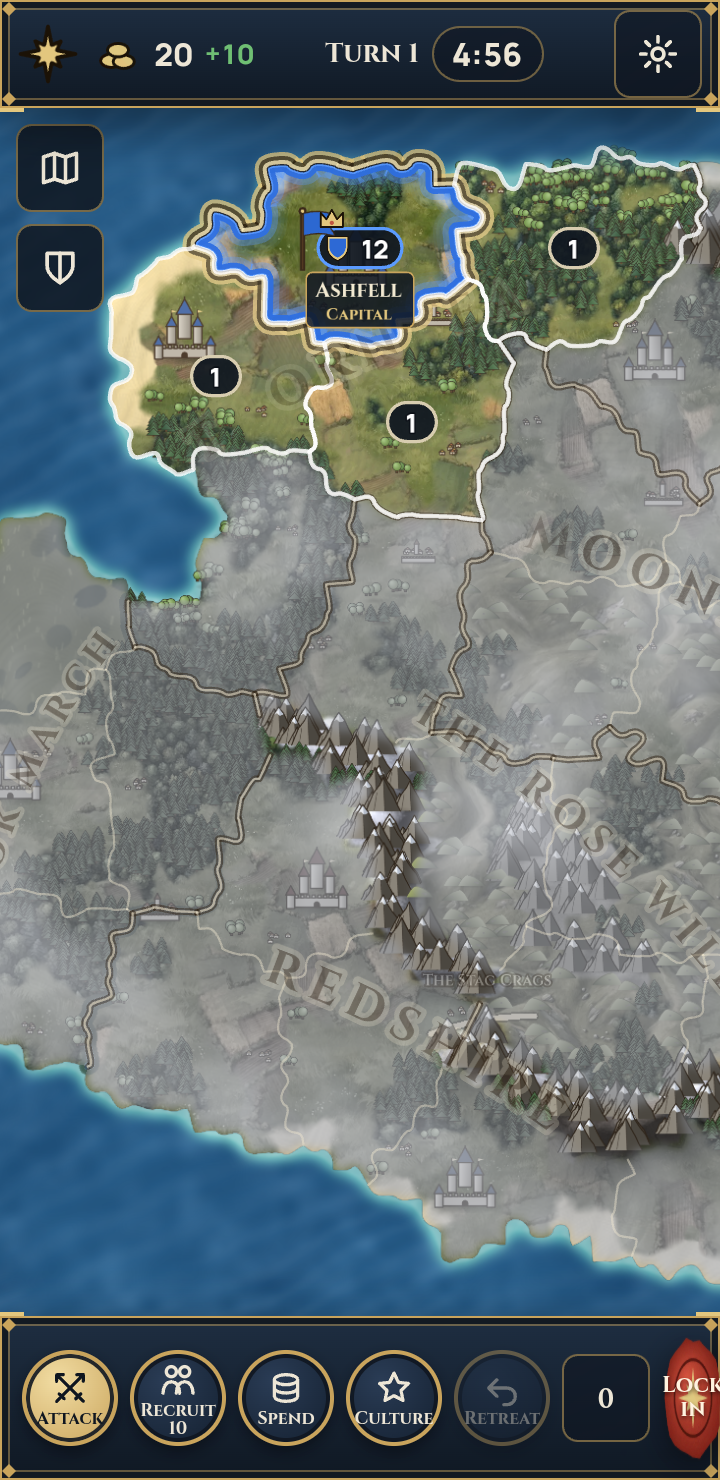
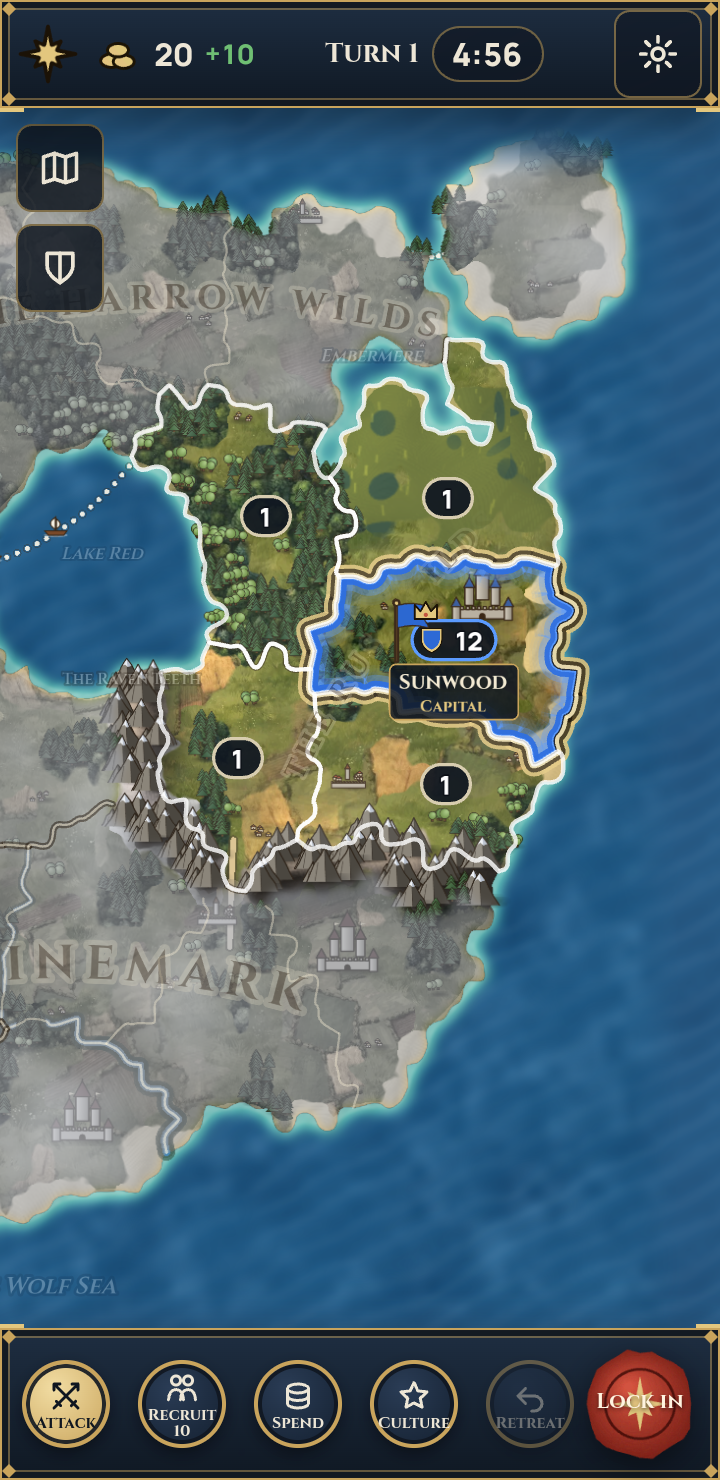
Map: natural ground edges (ragged noise edges, rock and snow by height, coastal sand), one colour grade, soft contact shadows under sprites; art import keeps earlier art when originals are elsewhere; host reports a stopped engine; screenshots retaken
Claude-Session: https://claude.ai/code/session_01DfTcRbGkbx6fdsuYzQ6kJk

diff --git a/packages/art/src/import.ts b/packages/art/src/import.ts
@@ -8,7 +8,7 @@
  *     textures and sprite families (trees, mountains, hills, settlements) are nudged toward one colour and contrast
  * Node only (uses sharp). Run it with `pnpm art:import`.
  */
-import { mkdirSync, readdirSync, rmSync, writeFileSync } from "node:fs";
+import { existsSync, mkdirSync, readFileSync, readdirSync, rmSync, writeFileSync } from "node:fs";
 import { extname, join } from "node:path";
 import sharp, { type Sharp } from "sharp";
 import { colourTargetFor } from "./palette";
@@ -266,11 +266,22 @@ export interface ImportReport {
   warnings: string[];
   /** Asset names with no file yet (the game shows a placeholder). */
   missing: AssetSpec[];
+  /** Imported before and kept, because their originals aren't in art/incoming now. */
+  kept: string[];
 }
 
 export interface ImportOptions {
   incomingDir: string;
   outDir: string;
+}
+
+function readManifest(path: string): ArtManifest {
+  try {
+    const m = JSON.parse(readFileSync(path, "utf8")) as ArtManifest;
+    return m && typeof m.assets === "object" ? m : { version: 1, assets: {} };
+  } catch {
+    return { version: 1, assets: {} };
+  }
 }
 
 const raw = async (s: Sharp): Promise<Rgba> => {
@@ -281,7 +292,7 @@ const fromRaw = (img: Rgba) => sharp(Buffer.from(img.data.buffer, img.data.byteO
 
 export async function importArt({ incomingDir, outDir }: ImportOptions): Promise<{ manifest: ArtManifest; report: ImportReport }> {
   const manifest: ArtManifest = { version: 1, assets: {} };
-  const report: ImportReport = { imported: [], unknown: [], warnings: [], missing: [] };
+  const report: ImportReport = { imported: [], unknown: [], warnings: [], missing: [], kept: [] };
   mkdirSync(outDir, { recursive: true });
   const files = readdirSync(incomingDir).sort();
 
@@ -364,6 +375,14 @@ export async function importArt({ incomingDir, outDir }: ImportOptions): Promise
     report.imported.push({ file, asset: spec.name, ...(notes.length ? { note: notes.join("; ") } : {}) });
   }
 
+  // Art imported earlier whose original isn't in art/incoming any more (for example on another computer) stays,
+  // so an import never throws away art the game already has. Only names the game no longer knows are dropped.
+  const previous = readManifest(join(outDir, "manifest.json"));
+  for (const [name, e] of Object.entries(previous.assets)) {
+    if (manifest.assets[name] || !ASSET_BY_NAME.has(name) || !existsSync(join(outDir, e.file))) continue;
+    manifest.assets[name] = e;
+    report.kept.push(name);
+  }
   report.missing = ASSETS.filter((a) => !manifest.assets[a.name]);
   // Clear out files from earlier imports that are no longer in the manifest.
   const keep = new Set(Object.values(manifest.assets).flatMap((e) => [e.file, ...(e.tintMask ? [e.tintMask] : [])]));
@@ -377,6 +396,7 @@ export function formatReport(report: ImportReport): string {
   const out: string[] = [];
   out.push(report.imported.length ? `Imported ${report.imported.length} file${report.imported.length === 1 ? "" : "s"}:` : "No art imported (art/incoming has no files with names the game knows).");
   for (const i of report.imported) out.push(`  ✓ ${i.file}${i.note ? ` (${i.note})` : ""}`);
+  if (report.kept?.length) out.push(`Kept ${report.kept.length} imported before (their originals aren't in art/incoming): ${report.kept.join(", ")}`);
   if (report.unknown.length) {
     out.push("", "Not recognised (check the name against docs/art/asset-list-and-prompts.md):");
     for (const u of report.unknown) out.push(`  ? ${u.file}${u.suggestion ? `: did you mean ${u.suggestion}.png?` : ""}`);

diff --git a/apps/web/src/render/pixi/shaders.ts b/apps/web/src/render/pixi/shaders.ts
@@ -77,12 +77,25 @@ void main() {
   float w[8];
   w[0] = b0.r; w[1] = b0.g; w[2] = b0.b; w[3] = b1.r; w[4] = b1.g; w[5] = b1.b; w[6] = b2.r; w[7] = b2.g;
   gTileMix = smoothstep(0.3, 0.7, vnoise(p * 0.011));
-  // Wobble each ground type's edge with one of two noises, so neighbouring types interlock instead of fading.
-  float na = vnoise(p * 0.06) - 0.5, nb = vnoise(p * 0.06 + 31.7) - 0.5;
+  // Natural edges: each ground type's edge is shaped by ragged noise (big wobbles plus fine fraying) and kept
+  // fairly crisp, so neighbouring types interlock like a painted map instead of fading into blurred squares.
+  float na = fbm(p * 0.045) - 0.5, nb = fbm(p * 0.045 + 31.7) - 0.5;
+  float fray = vnoise(p * 0.32) - 0.5;
+  // Height above the sea (0 at the shore, 1 at the highest peaks), for rock and snow.
+  float hAbove = clamp((texture(uAux1, p / uMap).b - uSea) / max(0.001, 1.0 - uSea), 0.0, 1.0);
+  vec2 rg = texture(uAux2, p / uMap).rg;
+  // Rock and snow follow height inside mountain ranges: rock on the high slopes, snow on the tops.
+  float hn = hAbove + na * 0.12 + fray * 0.05;
+  w[4] = max(w[4], rg.x * smoothstep(0.42, 0.6, hn));
+  w[5] = max(w[5], rg.x * smoothstep(0.7, 0.84, hn));
+  // A thin band of sand along every coast.
+  vec2 lc = texture(uAux1, p / uMap).rg;
+  float shore = smoothstep(0.5, 0.56, lc.x) * (1.0 - smoothstep(0.54, 0.62, lc.y + na * 0.1 + fray * 0.05));
+  w[7] = max(w[7], shore * (1.0 - rg.x));
   float total = 0.0;
   for (int i = 0; i < 8; i++) {
     float n = mod(float(i), 2.0) < 0.5 ? na : nb;
-    w[i] = smoothstep(0.18, 0.82, w[i] + n * (0.26 + 0.04 * float(i)));
+    w[i] = smoothstep(0.36, 0.64, w[i] + n * (0.42 + 0.03 * float(i)) + fray * 0.14);
     total += w[i];
   }
   vec3 land = vec3(0.0);
@@ -128,6 +141,12 @@ void main() {
   float edge = smoothstep(0.08, 0.45, a1.r) * (1.0 - smoothstep(0.45, 0.9, a1.r));
   vec3 col = mix(water, land, coast);
   col = mix(col, col * 0.62, edge * 0.55);
+  // One colour grade over the whole painted world, so pieces from different art batches sit together:
+  // a touch warmer, gently richer, with soft contrast.
+  float lum = dot(col, vec3(0.299, 0.587, 0.114));
+  col = mix(vec3(lum), col, 1.08);
+  col *= vec3(1.03, 1.0, 0.95);
+  col = mix(col, col * col * (3.0 - 2.0 * col), 0.18);
   finalColor = vec4(clamp(col, 0.0, 1.0), 1.0);
 }
 `;

diff --git a/apps/web/src/render/pixi/world.ts b/apps/web/src/render/pixi/world.ts
@@ -222,6 +222,25 @@ export class WorldLayer {
       }
       return t;
     };
+    // A soft contact shadow under every sprite, down and to the right (the light comes from the upper left).
+    const [shadowCanvas, sctx] = canvas(64, 32);
+    const grad = sctx.createRadialGradient(32, 16, 2, 32, 16, 30);
+    grad.addColorStop(0, "rgba(0,0,0,0.55)");
+    grad.addColorStop(1, "rgba(0,0,0,0)");
+    sctx.fillStyle = grad;
+    sctx.scale(1, 0.5);
+    sctx.fillRect(0, 0, 64, 64);
+    const shadowTex = Texture.from(shadowCanvas);
+    this.disposables.push(shadowTex);
+    const shadow = (x: number, y: number, size: number) => {
+      const s = new Sprite(shadowTex);
+      s.anchor.set(0.5);
+      s.width = size * 0.95;
+      s.height = size * 0.34;
+      s.alpha = 0.55;
+      s.position.set(x + size * 0.14, y + size * 0.04);
+      return s;
+    };
     const place = (name: string, x: number, y: number, size: number, flip: boolean) => {
       const t = tex(name);
       const s = new Sprite(t);
@@ -235,10 +254,16 @@ export class WorldLayer {
       const kind = DECOR_ART[d.kind]!;
       const flip = ((d.x * 7 + d.y * 13) | 0) % 3 === 0 && d.kind !== "peak";
       const jitter = 0.88 + (((d.x * 31 + d.y * 17) | 0) % 25) / 100;
-      items.push({ y: d.y, make: () => place(`${kind}-${d.v}`, d.x, d.y, DECOR_SIZE[d.kind]! * jitter, flip) });
+      const size = DECOR_SIZE[d.kind]! * jitter;
+      // Shadows sort just before their own sprite.
+      items.push({ y: d.y - 0.001, make: () => shadow(d.x, d.y, size) });
+      items.push({ y: d.y, make: () => place(`${kind}-${d.v}`, d.x, d.y, size, flip) });
     }
     g.territories.forEach((t, i) => {
-      if (t.castle) items.push({ y: t.castle.y, make: () => place(`capital-${(i % 2) + 1}`, t.castle!.x, t.castle!.y, CASTLE_SIZE, false) });
+      if (t.castle) {
+        items.push({ y: t.castle.y - 0.001, make: () => shadow(t.castle!.x, t.castle!.y, CASTLE_SIZE) });
+        items.push({ y: t.castle.y, make: () => place(`capital-${(i % 2) + 1}`, t.castle!.x, t.castle!.y, CASTLE_SIZE, false) });
+      }
     });
     items.sort((a, b) => a.y - b.y);
     for (const it of items) this.bakeScene.addChild(it.make());

diff --git a/apps/web/src/host/localHost.ts b/apps/web/src/host/localHost.ts
@@ -27,6 +27,16 @@ export function createLocalHost(): GameHost {
     if (!res.ok) p.reject(new Error(res.error));
     else p.resolve("orders" in res ? res.orders : res.update);
   };
+  // If the engine's worker stops (it crashed, or the browser killed it), say so instead of waiting forever.
+  const failAll = (why: string) => {
+    for (const p of pending.values()) p.reject(new Error(why));
+    pending.clear();
+  };
+  worker.onerror = (e) => {
+    console.error("Game host stopped:", e.message);
+    failAll("The game engine stopped unexpectedly. Reload the page to start again.");
+  };
+  worker.onmessageerror = () => failAll("The game engine sent a message the page couldn't read.");
   const send = <T = HostUpdate>(body: Body) =>
     new Promise<T>((resolve, reject) => {
       const id = nextId++;

diff --git a/packages/art/test/import.test.ts b/packages/art/test/import.test.ts
@@ -107,6 +107,15 @@ describe("pnpm art:import", () => {
     expect(text).toContain("Imported 3 files");
     expect(text).toContain("dragon.png");
     expect(text).toContain("cropped to a square from 700×600");
+
+    // Importing again on a computer without the originals keeps the art the game already has.
+    const empty = join(tmp, "empty");
+    mkdirSync(empty);
+    const again = await importArt({ incomingDir: empty, outDir: out });
+    expect(Object.keys(again.manifest.assets).sort()).toEqual(["figure-army", "terrain-grass", "tree-conifer-1"]);
+    expect(again.report.kept.sort()).toEqual(["figure-army", "terrain-grass", "tree-conifer-1"]);
+    expect(readdirSync(out)).toContain("terrain-grass.webp");
+    expect(formatReport(again.report)).toContain("Kept 3");
   }, 30_000);
 });
 
